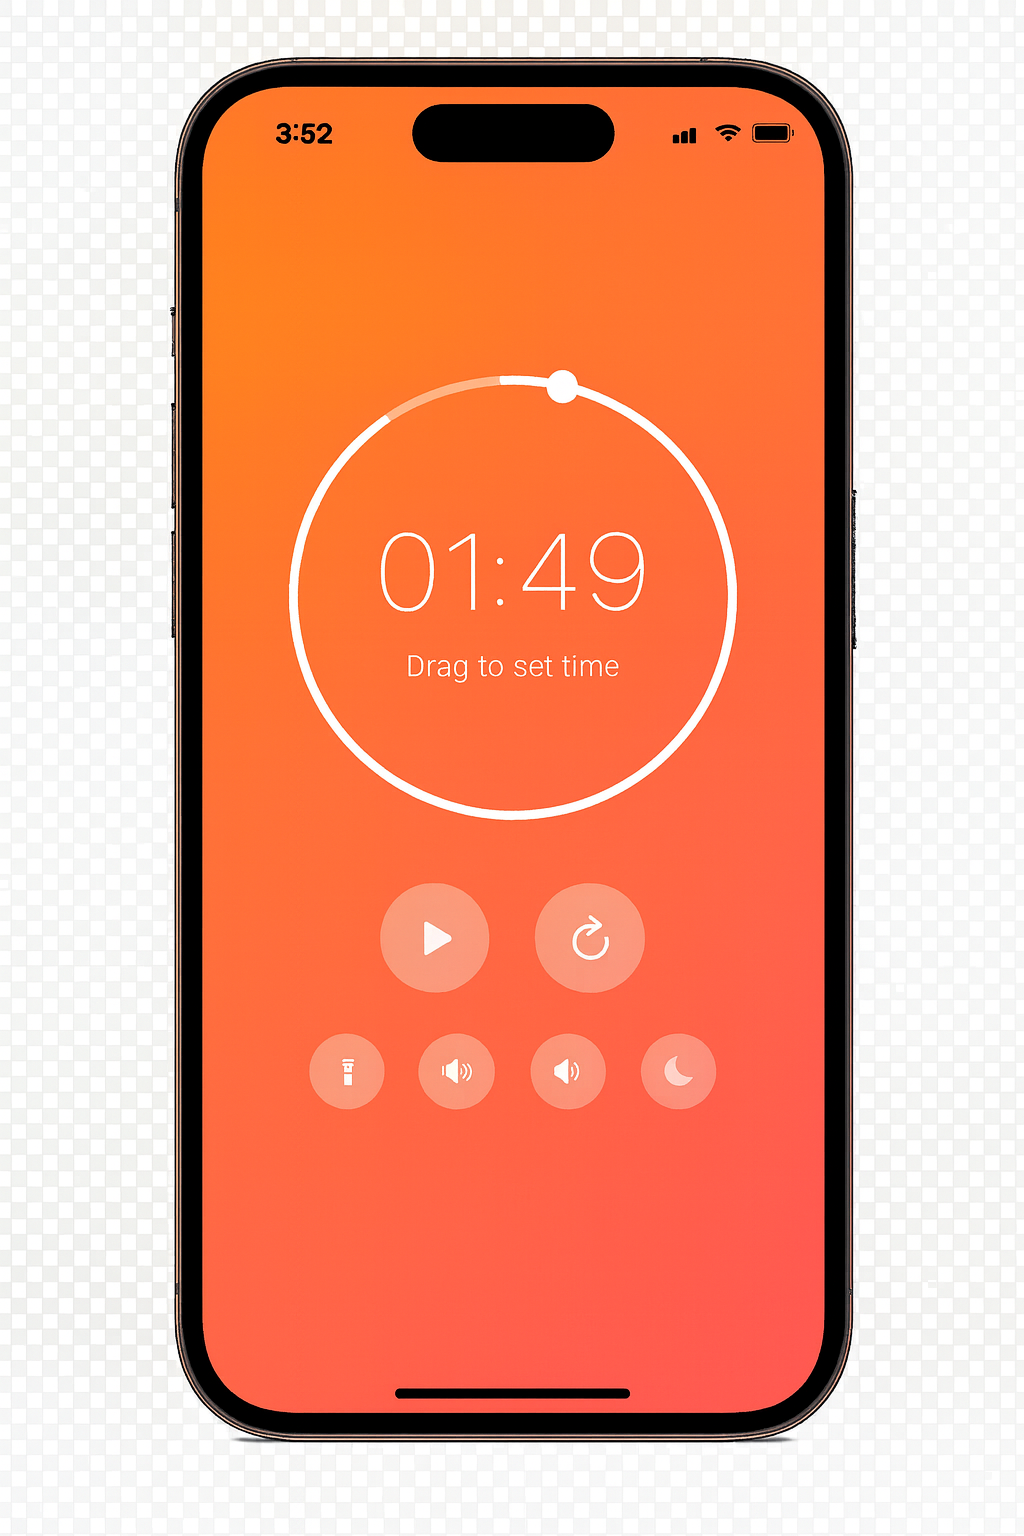
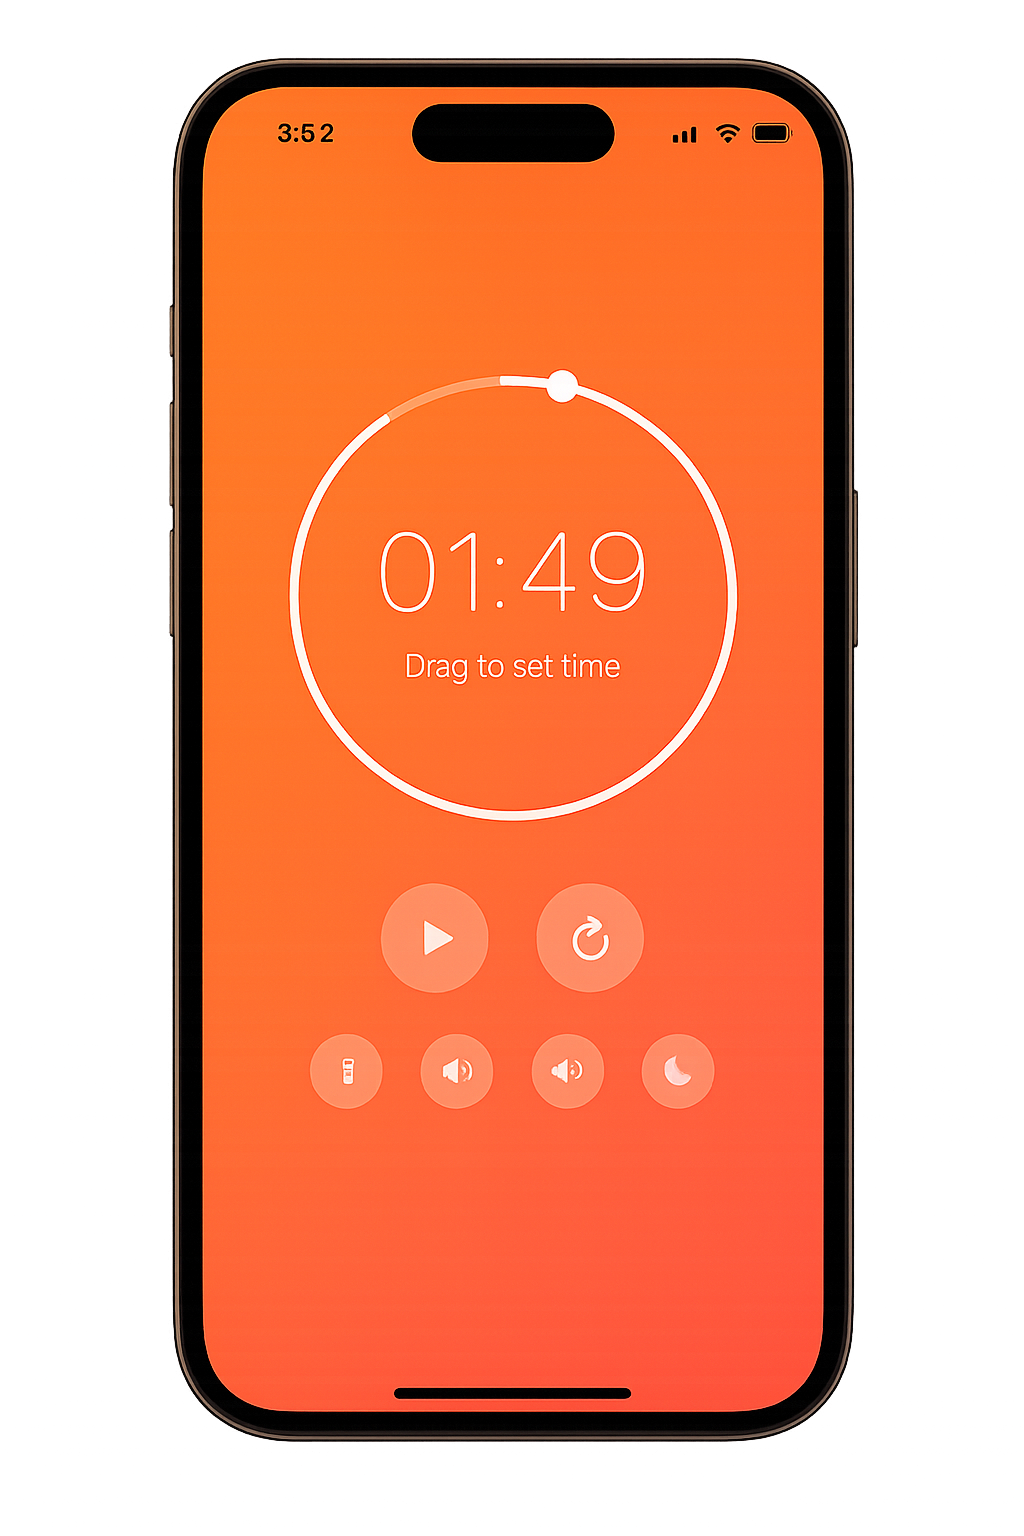
Update .gitignore to include .claude directory and next-env.d.ts; modify index.html for styling changes, replace app store button with a new link and image, and update footer copyright year to 2025. Update binary image file for app interface.

diff --git a/index.html b/index.html
@@ -74,11 +74,11 @@
             width: 2rem;
             height: 2rem;
             border-radius: 50%;
-            background-color: #1f2937;
+            background: linear-gradient(135deg, var(--primary), rgba(217, 119, 6, 0.8));
             display: flex;
             align-items: center;
             justify-content: center;
-            color: white;
+            color: var(--primary-foreground);
             font-weight: bold;
             font-size: 0.875rem;
         }
@@ -184,13 +184,13 @@
         }
 
         .hero-subtitle {
-            font-size: 1.25rem;
+            font-size: 1.5rem;
             color: var(--muted-foreground);
         }
 
         @media (min-width: 1024px) {
             .hero-subtitle {
-                font-size: 1.5rem;
+                font-size: 1.8rem;
             }
         }
 
@@ -228,7 +228,7 @@
 
         .hero-image {
             position: relative;
-            max-width: 20rem;
+            max-width: 28.8rem;
             margin: 0 auto;
         }
 
@@ -433,16 +433,7 @@
                     <span class="logo-text">ZenTimer</span>
                 </div>
 
-                <nav class="nav">
-                    <a href="#features">Features</a>
-                </nav>
 
-                <a href="#" class="cta-button">
-                    <svg class="icon icon-sm" viewBox="0 0 24 24">
-                        <path d="M18.71 19.5c-.83 1.24-1.71 2.45-3.05 2.47-1.34.03-1.77-.79-3.29-.79-1.53 0-2 .77-3.27.82-1.31.05-2.3-1.32-3.14-2.53C4.25 17 2.94 12.45 4.7 9.39c.87-1.52 2.43-2.48 4.12-2.51 1.28-.02 2.5.87 3.29.87.78 0 2.26-1.07 3.81-.91.65.03 2.47.26 3.64 1.98-.09.06-2.17 1.28-2.15 3.81.03 3.02 2.65 4.03 2.68 4.04-.03.07-.42 1.44-1.38 2.83M13 3.5c.73-.83 1.94-1.46 2.94-1.5.13 1.17-.34 2.35-1.04 3.19-.69.85-1.83 1.51-2.95 1.42-.15-1.15.41-2.35 1.05-3.11z" />
-                    </svg>
-                    App Store
-                </a>
             </div>
         </div>
     </header>
@@ -466,14 +457,18 @@
                     </div>
 
                     <div class="hero-buttons">
-                        <a href="#" class="app-store-button">
[1 lines of base64/hex data omitted]
-                        </a>
+                        <div class="inline-block">
+                            <div>
+                                <a href="https://apps.apple.com/ca/app/gitstreak/id6751604155" target="_blank" class="inline-block hover:scale-105 transition-transform">
+                                    <img src="https://developer.apple.com/assets/elements/badges/download-on-the-app-store.svg" alt="Download on the App Store" class="h-16">
+                                </a>
+                            </div>
+                        </div>
                     </div>
                 </div>
 
                 <div class="hero-image">
[1 lines of base64/hex data omitted]
+                    <img src="b6128bbf-676a-4184-8355-3056b26aac16.png" alt="ZenTimer app interface showing circular timer">
                 </div>
             </div>
         </div>
@@ -557,16 +552,17 @@
                     The mindful productivity timer for iOS that respects your privacy.
                 </p>
 
-                <a href="#" class="footer-button">
-                    <svg class="icon icon-lg" viewBox="0 0 24 24" fill="currentColor">
-                        <path d="M18.71 19.5c-.83 1.24-1.71 2.45-3.05 2.47-1.34.03-1.77-.79-3.29-.79-1.53 0-2 .77-3.27.82-1.31.05-2.3-1.32-3.14-2.53C4.25 17 2.94 12.45 4.7 9.39c.87-1.52 2.43-2.48 4.12-2.51 1.28-.02 2.5.87 3.29.87.78 0 2.26-1.07 3.81-.91.65.03 2.47.26 3.64 1.98-.09.06-2.17 1.28-2.15 3.81.03 3.02 2.65 4.03 2.68 4.04-.03.07-.42 1.44-1.38 2.83M13 3.5c.73-.83 1.94-1.46 2.94-1.5.13 1.17-.34 2.35-1.04 3.19-.69.85-1.83 1.51-2.95 1.42-.15-1.15.41-2.35 1.05-3.11z" />
-                    </svg>
-                    Download on the App Store
-                </a>
+                <div class="inline-block">
+                    <div>
+                        <a href="https://apps.apple.com/ca/app/gitstreak/id6751604155" target="_blank" class="inline-block hover:scale-105 transition-transform">
+                            <img src="https://developer.apple.com/assets/elements/badges/download-on-the-app-store.svg" alt="Download on the App Store" class="h-16">
+                        </a>
+                    </div>
+                </div>
 
                 <div class="footer-bottom">
                     <p class="footer-copyright">
-                        © 2024 ZenTimer. Made with mindfulness for focused productivity.
+                        © 2025 ZenTimer. Made with mindfulness for focused productivity.
                     </p>
                 </div>
             </div>
